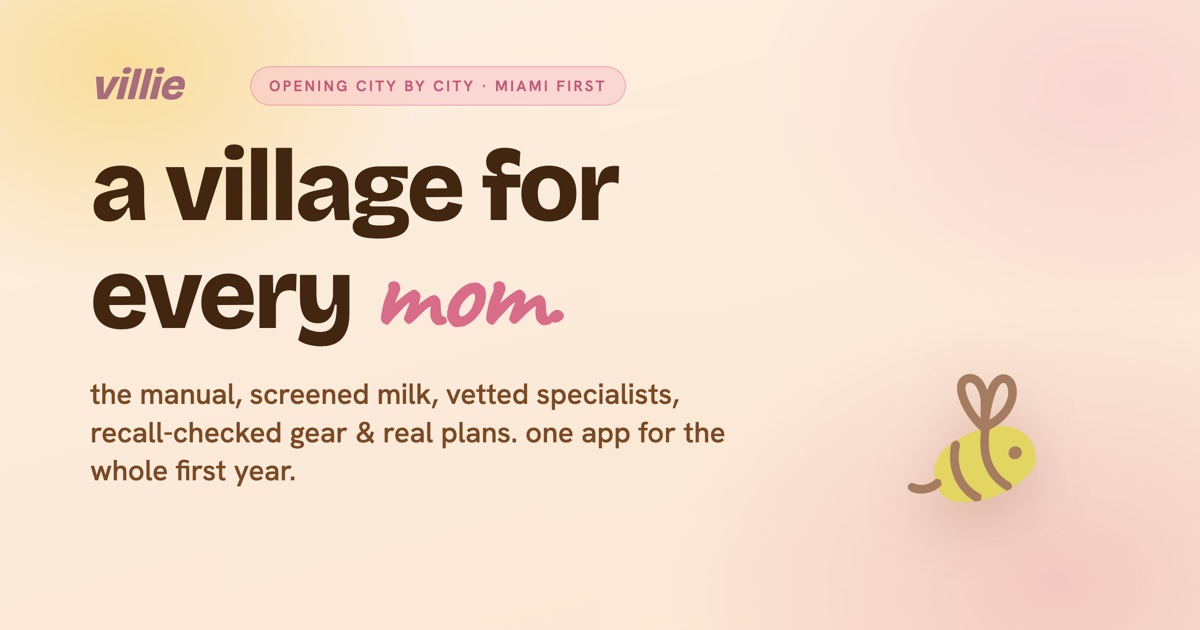
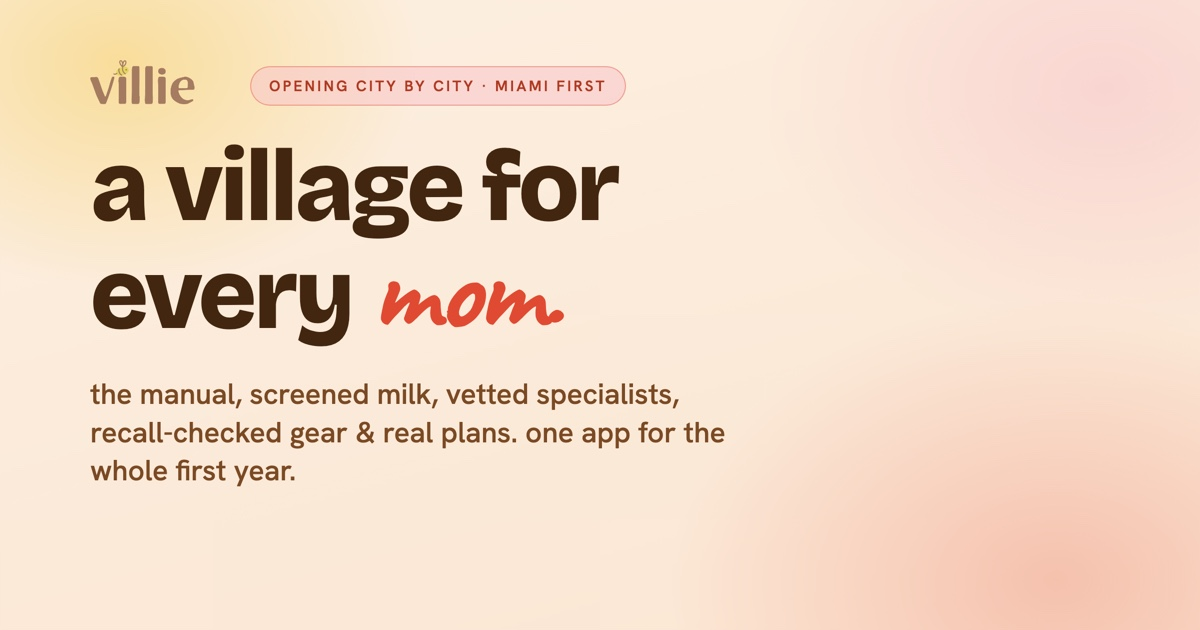
brand: the site was a palette generation behind the app — repaint to scarlet
The V10 primary was repainted #D96C88 (rose) -> #E14A32 (scarlet) in the app on
2026-08-08, but villieapp.com never followed. A mother tapping through from the
site to the App Store saw the brand change colour on her.

The trap that caused this, and that I walked straight into an hour ago: the app
constant is still NAMED `genz_rose`. Only its VALUE changed. So aligning the
site "to genz_rose" by name reproduces the old pink perfectly, which is what my
previous commit did. Copy VALUES out of apps/mobile/src/utils/constants.ts,
never names — noted in styles.css where the token is defined.

Corrected to the shipped values: --cinnamon #E14A32 (genz_rose, primary),
--cinnamon-dk #B03A22 (genz_berry, pressed), --butter/--marigold #DA9A2C
(genz_honey). The landing and the secondary pages share these tokens, so the
whole site moves together; the 12 hardcoded rose rgba()s in the landing and the
invariants comment that pinned the old hex are updated to match.

Share card regenerated from og-card.html. It also now uses the real
villie-wordmark.png instead of a Bricolage text lookalike in #A86D7D — a dusty
rose that was in no palette at all — so the card and the site header can't
drift apart again. The wordmark carries the bee dotting its "i", so the
separate corner bee is removed rather than doubling up.

Verified in the browser: landing, /auth/confirm and the card all read #E14A32.

diff --git a/index.html b/index.html
@@ -40,7 +40,7 @@
        vibe. 60/30/10 surface rule: 60% cream/paper, 30% earth, 10% cinnamon. */
 
     /* ════════ NON-NEGOTIABLE INVARIANTS (check on EVERY change) ════════
-       1. COLOR: action/accent = rose #D96C88 (var(--cinnamon)). No raw
+       1. COLOR: action/accent = scarlet #E14A32 (var(--cinnamon)). No raw
           cinnamon-brown (#C07840 / rgba(192,120,64) / rgba(150,80,50)). After
           any brand change, grep the WHOLE file for stray hexes, not just the
           obvious rule. Prefer var() over hardcoded.
@@ -237,7 +237,7 @@
       display: inline-flex; align-items: center; gap: 9px;
       margin-bottom: var(--s-5);
       background: rgba(247,197,203,0.26);
-      border: 1px solid rgba(217,108,136,0.32);
+      border: 1px solid rgba(225,74,50,0.32);
       border-radius: 999px;
       padding: 6px 14px 6px 12px;
     }
@@ -247,9 +247,9 @@
       animation: lp-dot-pulse 2.2s ease-out infinite;
     }
     @keyframes lp-dot-pulse {
-      0%   { box-shadow: 0 0 0 0 rgba(217,108,136,0.45); }
-      70%  { box-shadow: 0 0 0 7px rgba(217,108,136,0); }
-      100% { box-shadow: 0 0 0 0 rgba(217,108,136,0); }
+      0%   { box-shadow: 0 0 0 0 rgba(225,74,50,0.45); }
+      70%  { box-shadow: 0 0 0 7px rgba(225,74,50,0); }
+      100% { box-shadow: 0 0 0 0 rgba(225,74,50,0); }
     }
     @media (prefers-reduced-motion: reduce) { .lp-hero-eyebrow::before { animation: none; } }
 
@@ -311,7 +311,7 @@
     }
     .lp-btn-primary:hover::after { left: 135%; }
     .lp-btn-primary:hover { transform: translateY(-2px); box-shadow: 0 14px 28px rgba(148, 90, 65, 0.42), inset 0 1px 0 rgba(255,255,255,0.2); }
-    .lp-btn-primary:focus-visible { outline: 3px solid rgba(217,108,136,0.55); outline-offset: 3px; }
+    .lp-btn-primary:focus-visible { outline: 3px solid rgba(225,74,50,0.55); outline-offset: 3px; }
 
     /* Quiet scroll affordance beside the primary CTA */
     .lp-hero-ghost {
@@ -343,7 +343,7 @@
       text-decoration: none;
     }
     .lp-btn-secondary:hover { transform: translateY(-1px); background: #DCD0B4; }
-    .lp-btn-secondary:focus-visible { outline: 3px solid rgba(217,108,136,0.55); outline-offset: 3px; }
+    .lp-btn-secondary:focus-visible { outline: 3px solid rgba(225,74,50,0.55); outline-offset: 3px; }
 
     /* Bee mascot */
     .lp-hero-bee {
@@ -670,7 +670,7 @@
     /* Per-section card surface tint + border — each room now carries a soft
        wash of its own accent so the bento reads as five colored doors, not a
        tan card wall. Light enough that cocoa/walnut body text stays crisp. */
-    .lp-vert.manual      { --vert-halo: rgba(217,108,136,0.40); background: linear-gradient(158deg, #FBEFDD, #FAF3E6 70%); border-color: rgba(217,108,136,0.26); }
+    .lp-vert.manual      { --vert-halo: rgba(225,74,50,0.40); background: linear-gradient(158deg, #FBEFDD, #FAF3E6 70%); border-color: rgba(225,74,50,0.26); }
     .lp-vert.milk        { --vert-halo: rgba(226,122,147,0.42); background: linear-gradient(158deg, #FCE9EE, #FCF2F2 72%); border-color: rgba(226,122,147,0.30); }
     .lp-vert.specialists { --vert-halo: rgba(194,120,78,0.40); background: linear-gradient(158deg, #F8EADC, #FAF1E7 72%); border-color: rgba(194,120,78,0.28); }
     .lp-vert.gear        { --vert-halo: rgba(181,129,28,0.30); background: linear-gradient(158deg, #FAF1D5, #FBF5E4 72%); border-color: rgba(181,129,28,0.30); }
@@ -708,7 +708,7 @@
     .lp-section--hive .lp-section-eyebrow {
       gap: 9px; color: var(--cinnamon);
       background: rgba(247,197,203,0.30);
-      border: 1px solid rgba(217,108,136,0.32);
+      border: 1px solid rgba(225,74,50,0.32);
       border-radius: 999px; padding: 7px 15px 7px 13px;
       margin-bottom: var(--s-5);
     }
@@ -1003,7 +1003,7 @@
     .lp-field input:focus {
       outline: none; border-color: var(--cinnamon);
       background: var(--card);
-      box-shadow: 0 0 0 3px rgba(217,108,136,0.22);
+      box-shadow: 0 0 0 3px rgba(225,74,50,0.22);
     }
     .lp-field input::placeholder { color: var(--amber); opacity: 0.5; }
 
@@ -1023,7 +1023,7 @@
       border: 1px solid rgba(166,97,118,0.22);
       transition: background 160ms ease-out, color 160ms ease-out, border-color 160ms ease-out;
     }
-    .lp-chip:hover span { border-color: var(--cinnamon); background: rgba(217,108,136,0.07); }
+    .lp-chip:hover span { border-color: var(--cinnamon); background: rgba(225,74,50,0.07); }
     /* Selected = accent (rose) fill with card text — the brand's chip pattern,
        a clear, satisfying "picked" state. */
     .lp-chip input:checked + span {
@@ -1033,7 +1033,7 @@
       font-weight: 600;
       box-shadow: 0 4px 10px rgba(166,97,118,0.28);
     }
-    .lp-chip input:focus-visible + span { box-shadow: 0 0 0 3px rgba(217,108,136,0.38); }
+    .lp-chip input:focus-visible + span { box-shadow: 0 0 0 3px rgba(225,74,50,0.38); }
 
     .lp-field--zip { max-width: 240px; }
     .lp-field--zip input { letter-spacing: 0.04em; }
@@ -1250,12 +1250,12 @@
       <svg class="lp-pullquote-comb" viewBox="0 0 300 300" fill="none" aria-hidden="true" xmlns="http://www.w3.org/2000/svg">
         <g stroke="#FFF8EC" stroke-width="1.4" stroke-opacity="0.16" stroke-linejoin="round">
           <polygon points="196,70 173,110 127,110 104,70 127,30 173,30" />
-          <polygon points="196,150 173,190 127,190 104,150 127,110 173,110" fill="#F4C53C" fill-opacity="0.05" />
+          <polygon points="196,150 173,190 127,190 104,150 127,110 173,110" fill="#DA9A2C" fill-opacity="0.05" />
           <polygon points="196,230 173,270 127,270 104,230 127,190 173,190" />
           <polygon points="127,110 104,150 58,150 35,110 58,70 104,70" />
           <polygon points="127,190 104,230 58,230 35,190 58,150 104,150" />
           <polygon points="265,110 242,150 196,150 173,110 196,70 242,70" />
-          <polygon points="265,190 242,230 196,230 173,190 196,150 242,150" fill="#F4C53C" fill-opacity="0.04" />
+          <polygon points="265,190 242,230 196,230 173,190 196,150 242,150" fill="#DA9A2C" fill-opacity="0.04" />
         </g>
       </svg>
       <p class="lp-pullquote-text reveal">it takes a <em>village.</em></p>
@@ -1270,7 +1270,7 @@
         <svg class="lp-waitlist-comb" viewBox="0 0 300 300" fill="none" aria-hidden="true" xmlns="http://www.w3.org/2000/svg">
           <g stroke="#CC8A9C" stroke-width="1.6" stroke-opacity="0.18" stroke-linejoin="round">
             <polygon points="196,70 173,110 127,110 104,70 127,30 173,30" />
-            <polygon points="196,150 173,190 127,190 104,150 127,110 173,110" fill="#F4C53C" fill-opacity="0.07" />
+            <polygon points="196,150 173,190 127,190 104,150 127,110 173,110" fill="#DA9A2C" fill-opacity="0.07" />
             <polygon points="196,230 173,270 127,270 104,230 127,190 173,190" />
             <polygon points="127,110 104,150 58,150 35,110 58,70 104,70" />
             <polygon points="265,110 242,150 196,150 173,110 196,70 242,70" fill="#E27A93" fill-opacity="0.05" />

diff --git a/og-card.html b/og-card.html
@@ -13,20 +13,22 @@
     background:
       radial-gradient(42% 60% at 10% 10%, rgba(244,197,60,0.42), transparent 60%),
       radial-gradient(46% 64% at 92% 14%, rgba(247,197,203,0.58), transparent 62%),
-      radial-gradient(52% 72% at 88% 92%, rgba(217,108,136,0.24), transparent 62%),
+      radial-gradient(52% 72% at 88% 92%, rgba(225,74,50,0.24), transparent 62%),
       linear-gradient(165deg, #FCEFE0, #FBE6D3);
     font-family: 'Hanken Grotesk', sans-serif;
   }
+  /* The real wordmark asset, not a text lookalike — the card and the site
+     header must never drift apart. villie-wordmark.png is trimmed to its ink
+     bounds, so this height is the wordmark's true rendered height. */
   .wm {
     position: absolute; top: 60px; left: 90px;
-    font-family: 'Bricolage Grotesque'; font-weight: 800; font-style: italic;
-    font-size: 42px; letter-spacing: -0.02em; color: #A86D7D;
+    height: 44px; width: auto; display: block;
   }
   .pill {
     position: absolute; top: 66px; left: 250px;
     font-family: 'Hanken Grotesk'; font-weight: 600; font-size: 15px;
-    letter-spacing: 0.16em; text-transform: uppercase; color: #C25A78;
-    background: rgba(247,197,203,0.55); border: 1px solid rgba(217,108,136,0.42);
+    letter-spacing: 0.16em; text-transform: uppercase; color: #B03A22;
+    background: rgba(247,197,203,0.55); border: 1px solid rgba(225,74,50,0.42);
     border-radius: 999px; padding: 9px 18px;
   }
   h1 {
@@ -36,7 +38,7 @@
   }
   h1 em {
     font-family: 'Caveat'; font-style: normal; font-weight: 700;
-    color: #D96C88; font-size: 1.18em;
+    color: #E14A32; font-size: 1.18em;
   }
   p {
     font-family: 'Hanken Grotesk'; font-weight: 500;
@@ -51,11 +53,10 @@
 </head>
 <body>
   <div class="card">
-    <div class="wm">villie</div>
+    <img class="wm" src="villie-wordmark.png" alt="villie" />
     <div class="pill">opening city by city · miami first</div>
     <h1>a village for every <em>mom.</em></h1>
     <p>the manual, screened milk, vetted specialists, recall-checked gear &amp; real plans. one app for the whole first year.</p>
-    <img class="bee" src="villie-bee.png" alt="" />
   </div>
 </body>
 </html>

diff --git a/styles.css b/styles.css
@@ -12,12 +12,16 @@
   --paper:        #FFFCF6;  /* alt page (genz_bone) */
   --parchment:    #F2E6DD;  /* cards (genz_clay) */
   --card:         #FFFCF6;  /* pure-white substitute */
-  --butter:       #F4C53C;  /* honey — bee, sunshine, halos (genz_honey) */
-  --marigold:     #F4C53C;  /* honey energy */
-  /* Action — ROSE is the app's one spark (genz_rose). The token keeps the
-     "cinnamon" name so existing rules work, but the value is now app rose. */
-  --cinnamon:     #D96C88;  /* genz_rose — CTA, link, the spark */
-  --cinnamon-dk:  #C25A78;  /* genz_berry — pressed */
+  --butter:       #DA9A2C;  /* honey — bee, sunshine, halos (genz_honey) */
+  --marigold:     #DA9A2C;  /* honey energy */
+  /* Action — SCARLET is the app's one spark. The token keeps the "cinnamon"
+     name so existing rules work, but the value is the app's primary.
+     ⚠ The app constant is still *named* `genz_rose`, but its VALUE was
+     repainted #D96C88 → #E14A32 on 2026-08-08. The name did not change, so
+     matching by name gives you the old pink. Copy VALUES from
+     apps/mobile/src/utils/constants.ts, never names. */
+  --cinnamon:     #E14A32;  /* genz_rose  — CTA, link, the spark */
+  --cinnamon-dk:  #B03A22;  /* genz_berry — pressed */
   /* Support row */
   --caramel:      #E98A6A;  /* warm chestnut accent (genz_caramel) */
   --blush:        #F7C5CB;  /* empathy (genz_blush) */
@@ -224,8 +228,8 @@ li { margin-bottom: 6px; }
 }
 
 .callout {
-  background: rgba(217,108,136,0.06);
-  border: 1px solid rgba(217,108,136,0.28);
+  background: rgba(225,74,50,0.06);
+  border: 1px solid rgba(225,74,50,0.28);
   padding: 16px 20px;
   border-radius: 14px;
   margin: 24px 0;
